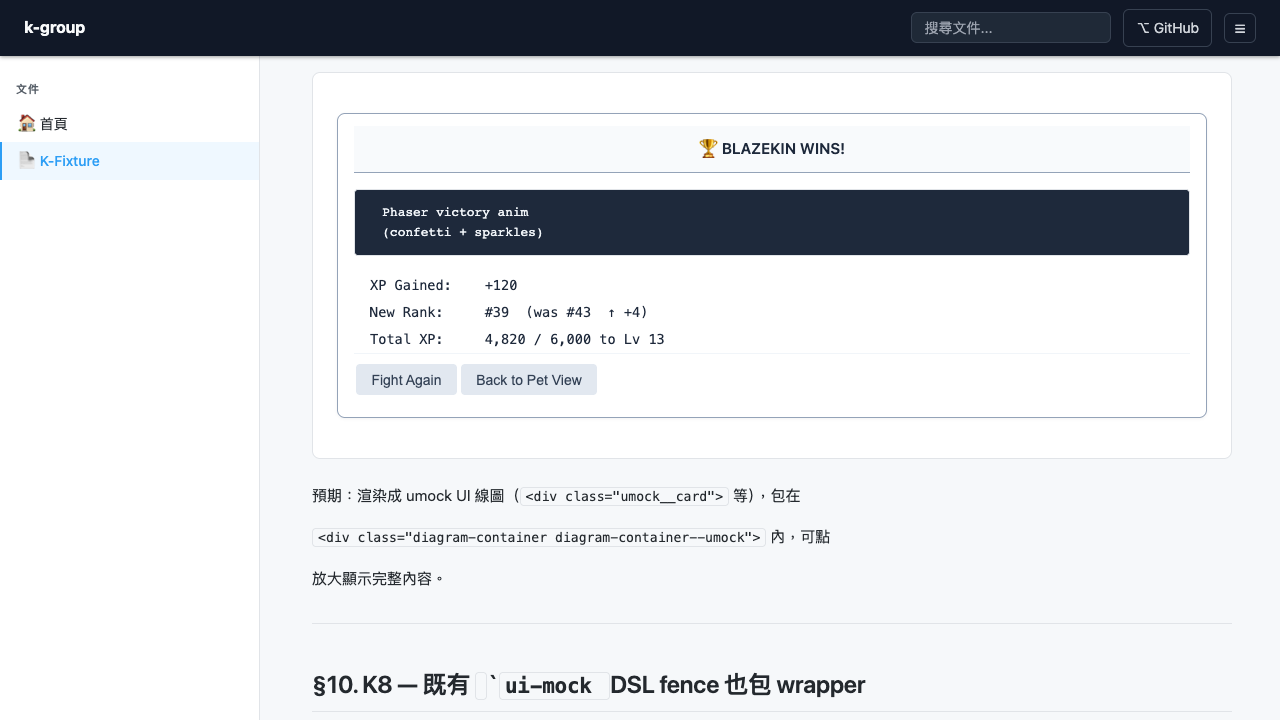
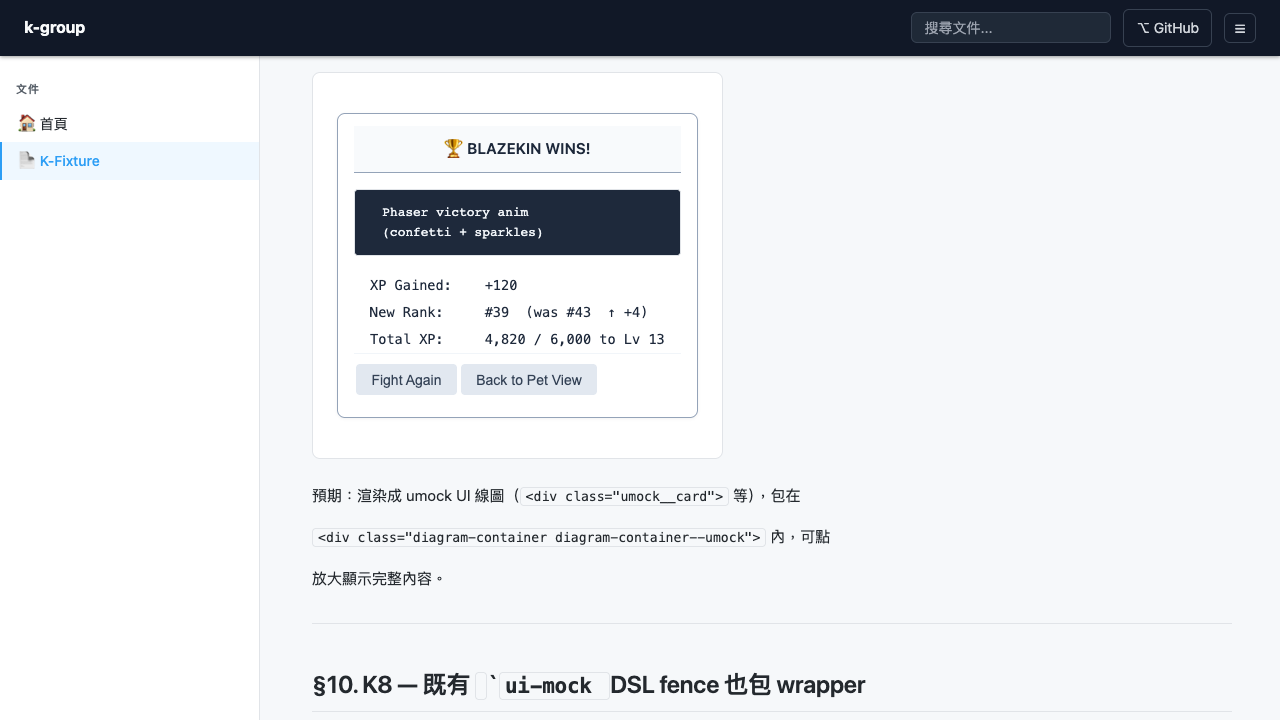
fix(gen-html): K9 補強 — umock 容器寬度收縮對齊 ASCII source 比例
問題（user 提）：原 ASCII 寬長比例 ≈ 1.3:1（47 字元寬 × 17 行高），
HTML 渲染後 umock card 撐滿全寬約 870px，比例變成 ≈ 3:1，跟原圖
完全不對應。

修法：CSS `.diagram-container--umock` + 內含 card/page/modal 加：
  width: fit-content;
  max-width: 100%;

效果：
- umock 容器寬度收縮到實際內容所需，不再 stretch 滿全寬
- 內部 .umock__card / .umock__page / .umock__modal 同樣 fit-content
- max-width: 100% 防止超寬內容溢出 viewport

驗證 (k-group sandbox 兩個獨立案例)：
§9 Post-Battle:
  .md       ≈ 430×330px (1.3:1)
  HTML inline ≈ 370×310px (1.2:1)
  lightbox    ≈ 340×290px (1.2:1)
§12 Battle Animation:
  .md       ≈ 430×360px (1.2:1)
  HTML inline ≈ 440×360px (1.2:1)
  lightbox    ≈ 400×335px (1.2:1)

3 視角寬長比例都接近原 ASCII，且互相一致。

361/361 test 全綠（無 regression）。

Changed region(s): [[0.5312, 0.1833, 0.9375, 0.3667], [0.3438, 0.1833, 0.4688, 0.2139]]

diff --git a/tools/gen_html/preview/k-group/docs/pages/index.html b/tools/gen_html/preview/k-group/docs/pages/index.html
@@ -97,8 +97,20 @@
       background: #f8fafc; border-bottom: 1.5px solid #94a3b8; }
     /* `.diagram-container` (assets/style.css) defaults to text-align: center
        which is right for SVG/mermaid but wrong for umock body text. Reset
-       to start so individual umock elements decide their own alignment. */
-    .diagram-container--umock { text-align: start; }
+       to start so individual umock elements decide their own alignment.
+       Also constrain width to content so umock card mirrors ASCII source
+       proportions (rather than stretching to full doc-content width). */
+    .diagram-container--umock {
+      text-align: start;
+      width: fit-content;
+      max-width: 100%;
+    }
+    .diagram-container--umock .umock__card,
+    .diagram-container--umock .umock__page,
+    .diagram-container--umock .umock__modal {
+      width: fit-content;
+      max-width: 100%;
+    }
     /* Outer-alignment modifiers — applied via attrs.align detected from
        the source ASCII's leading/trailing whitespace within `│ ... │`. */
     .umock__card-title--center, .umock__page-title--center,

diff --git a/tools/gen_html/preview/k-group/docs/pages/k-fixture.html b/tools/gen_html/preview/k-group/docs/pages/k-fixture.html
@@ -97,8 +97,20 @@
       background: #f8fafc; border-bottom: 1.5px solid #94a3b8; }
     /* `.diagram-container` (assets/style.css) defaults to text-align: center
        which is right for SVG/mermaid but wrong for umock body text. Reset
-       to start so individual umock elements decide their own alignment. */
-    .diagram-container--umock { text-align: start; }
+       to start so individual umock elements decide their own alignment.
+       Also constrain width to content so umock card mirrors ASCII source
+       proportions (rather than stretching to full doc-content width). */
+    .diagram-container--umock {
+      text-align: start;
+      width: fit-content;
+      max-width: 100%;
+    }
+    .diagram-container--umock .umock__card,
+    .diagram-container--umock .umock__page,
+    .diagram-container--umock .umock__modal {
+      width: fit-content;
+      max-width: 100%;
+    }
     /* Outer-alignment modifiers — applied via attrs.align detected from
        the source ASCII's leading/trailing whitespace within `│ ... │`. */
     .umock__card-title--center, .umock__page-title--center,

diff --git a/tools/gen_html/gen_html.py b/tools/gen_html/gen_html.py
@@ -311,8 +311,20 @@ HTML_TEMPLATE = """<!DOCTYPE html>
       background: #f8fafc; border-bottom: 1.5px solid #94a3b8; }
     /* `.diagram-container` (assets/style.css) defaults to text-align: center
        which is right for SVG/mermaid but wrong for umock body text. Reset
-       to start so individual umock elements decide their own alignment. */
-    .diagram-container--umock { text-align: start; }
+       to start so individual umock elements decide their own alignment.
+       Also constrain width to content so umock card mirrors ASCII source
+       proportions (rather than stretching to full doc-content width). */
+    .diagram-container--umock {
+      text-align: start;
+      width: fit-content;
+      max-width: 100%;
+    }
+    .diagram-container--umock .umock__card,
+    .diagram-container--umock .umock__page,
+    .diagram-container--umock .umock__modal {
+      width: fit-content;
+      max-width: 100%;
+    }
     /* Outer-alignment modifiers — applied via attrs.align detected from
        the source ASCII's leading/trailing whitespace within `│ ... │`. */
     .umock__card-title--center, .umock__page-title--center,
